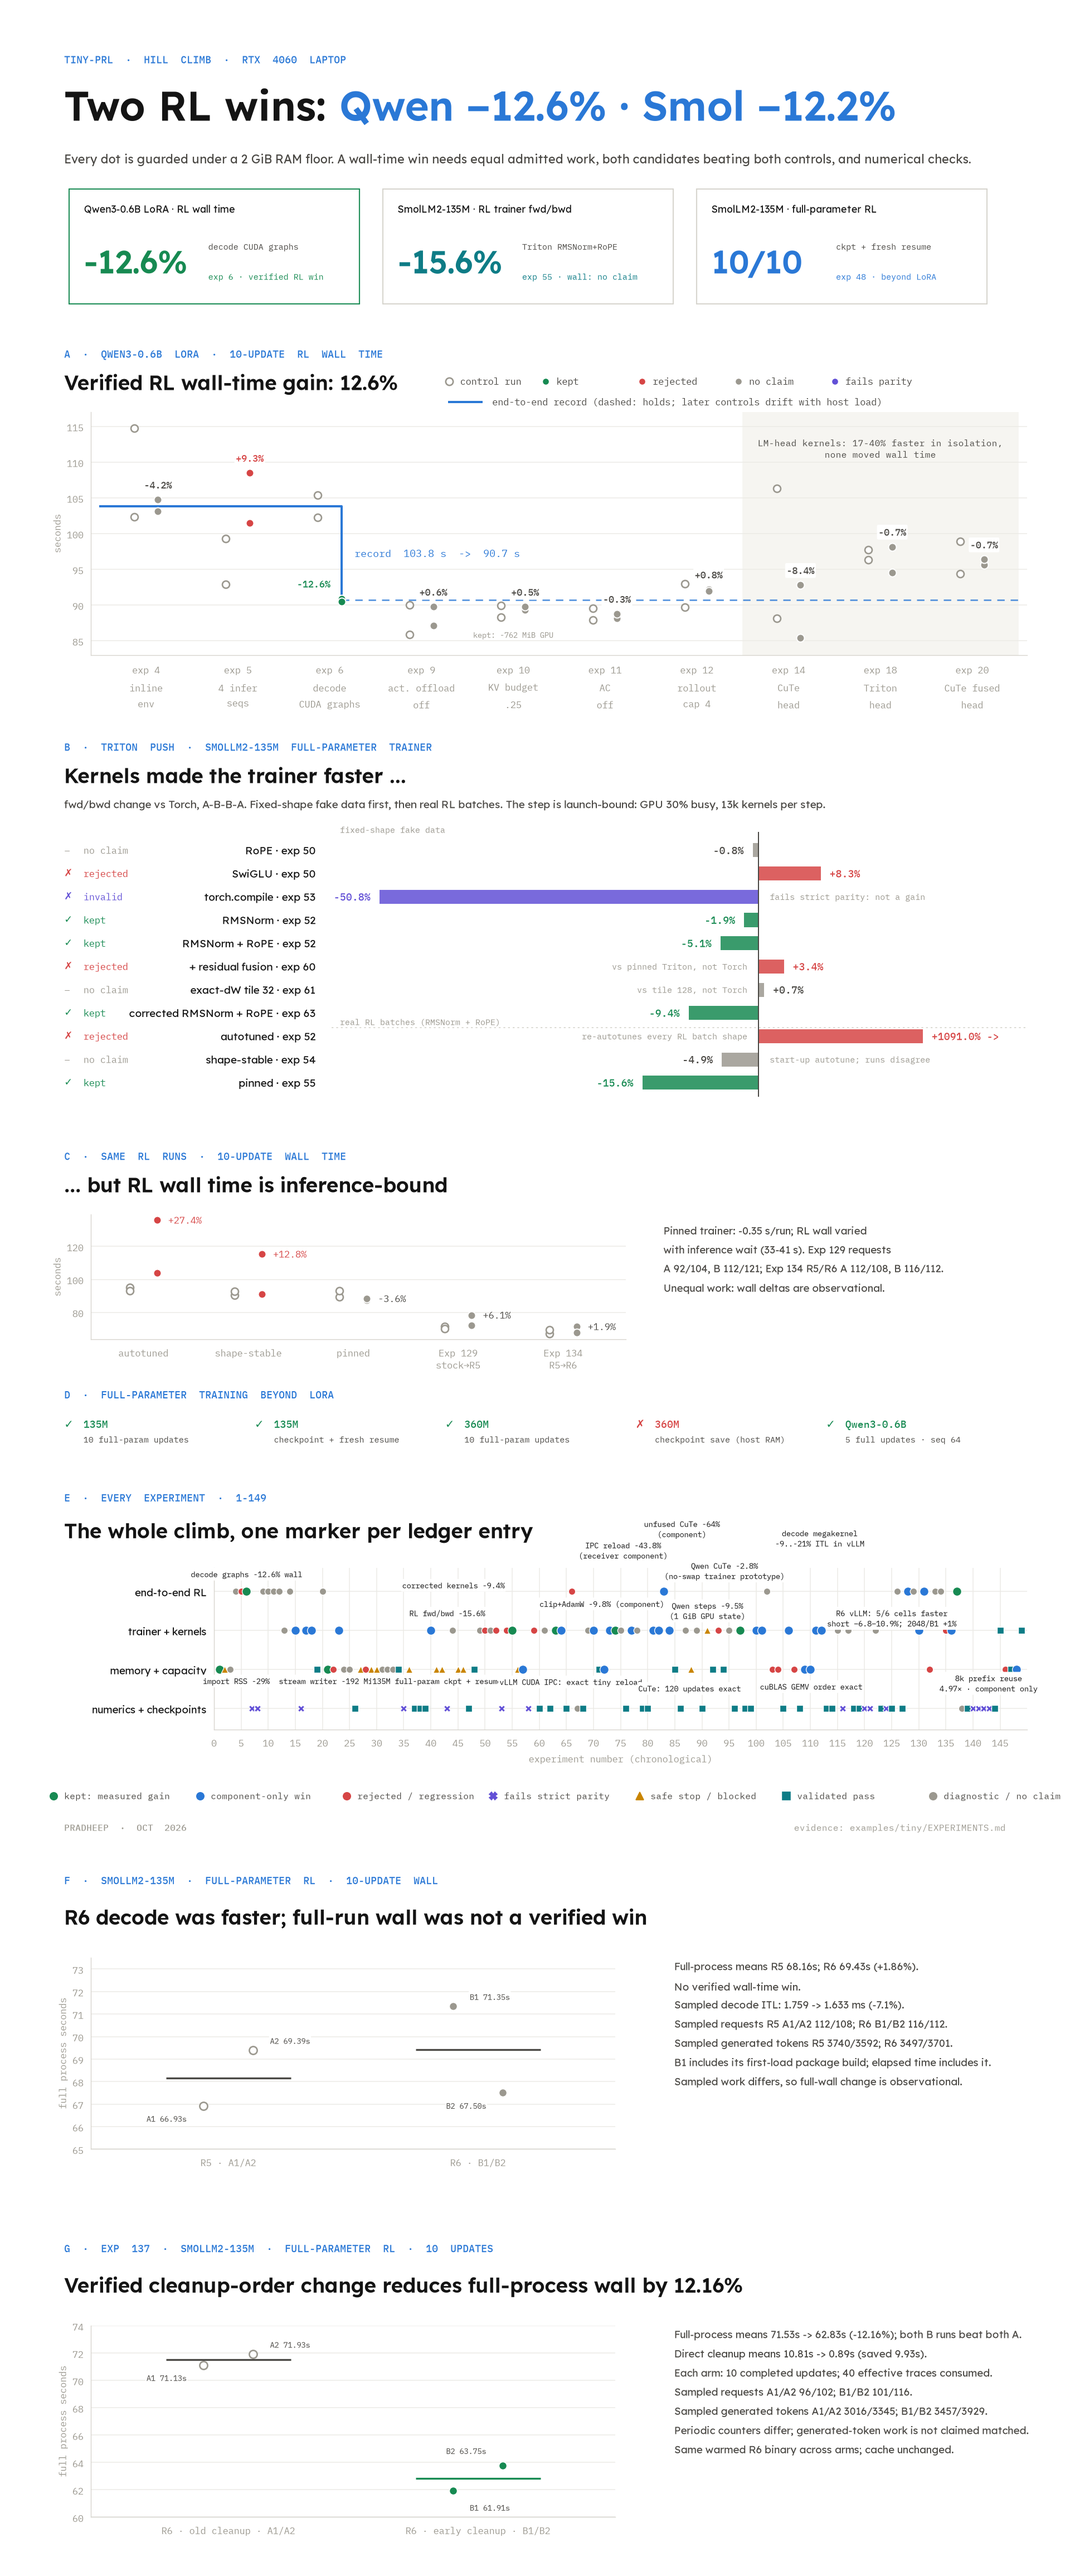
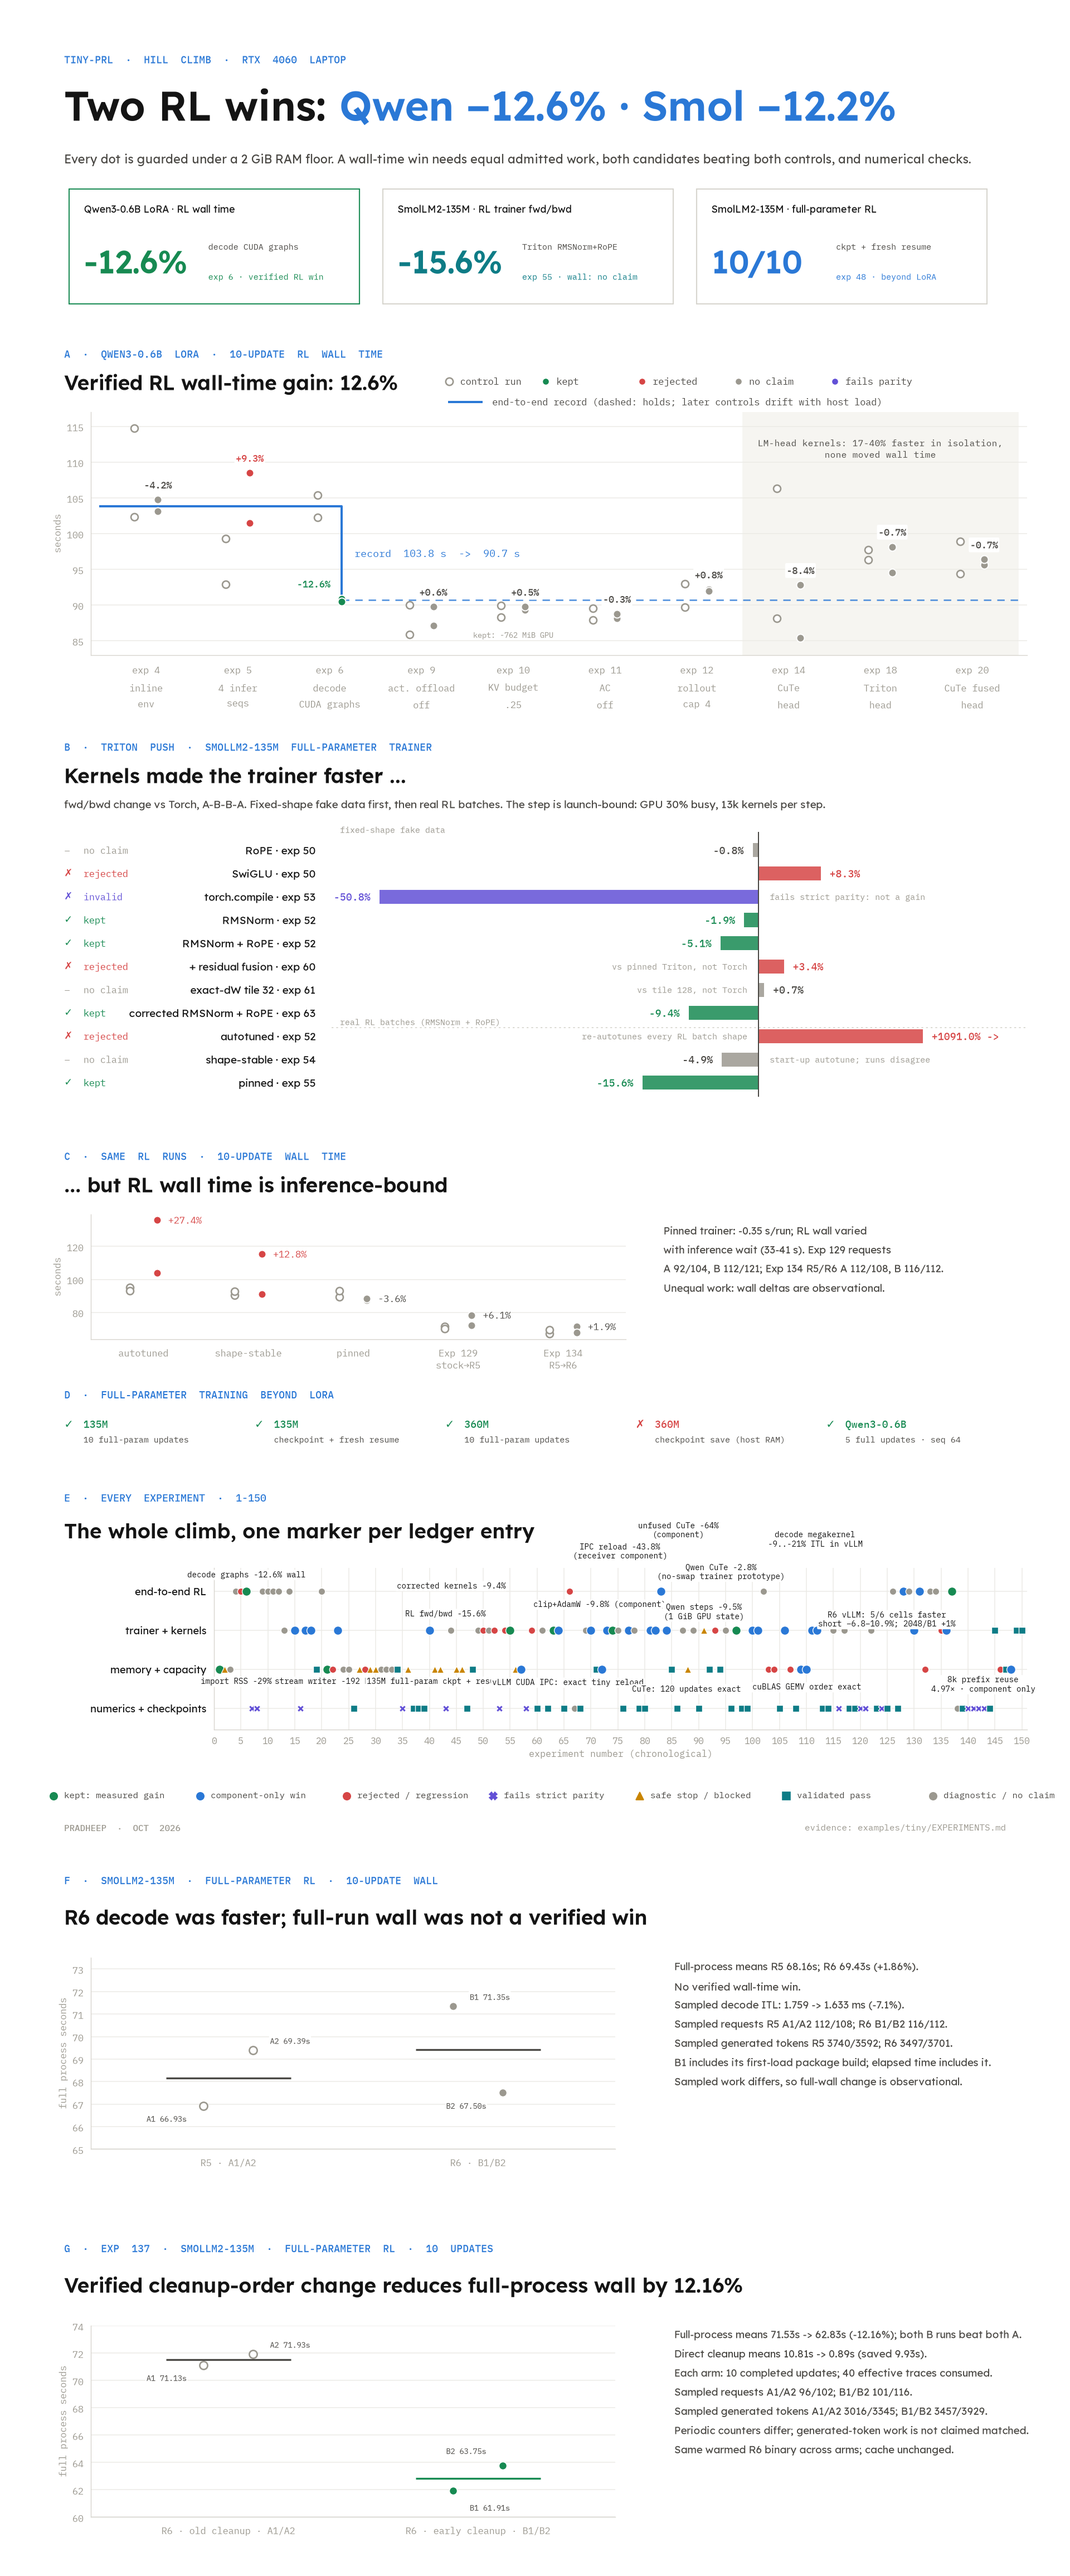
docs: record main score-centering validation

diff --git a/tools/plot_tiny_hillclimb.py b/tools/plot_tiny_hillclimb.py
@@ -245,6 +245,7 @@ EXPERIMENTS = {
     147: (MEM, "validated"),
     148: (MEM, "component"),
     149: (TRAIN, "validated"),
+    150: (TRAIN, "validated"),
 }
 # Callout text with (dx, dy) offsets in points, staggered so neighbours do not collide.
 CALLOUTS = {

diff --git a/examples/tiny/EXPERIMENTS.md b/examples/tiny/EXPERIMENTS.md
@@ -1302,3 +1302,9 @@ In a guarded A-B-B-A on three synthetic 8,000-token prefixes and eight completio
 The isolated local port completed three guarded RL updates with bounded replay sampling (`logprobs=8`, `top_k=8`). Loss, KL, and gradient norm were finite at every update. All 12 trainer-consumed trace IDs (four per update) joined to stream and orchestrator annotations. Across the three updates, measured head mass stayed approximately 1.0 and tail scale was exactly 0; mean logit-correction L1 was only 6.6–7.0e-7, so this run exercised the score-centering path with negligible effective correction. The run took 47.72 seconds, peaked at 5220 MiB GPU memory, used no swap, and retained at least 3.06 GiB available RAM.
 
 Three earlier real-run attempts exposed compatibility gaps and are retained as diagnostic milestones: R1 called `SamplingParams.model_copy`, which pinned vLLM 0.31 does not provide; R2 failed msgspec encoding on a NumPy scalar from the newer trace path; R3 lost `SamplingMask.logprobs` while slicing and packing batches. R4 completed after those fixes. This validates a three-update integration smoke, not reward/quality improvement, learning progress, or wall-time speedup. The renderer/verifier overlays are isolated compatibility inputs; the minimum supported dependency metadata remains unresolved. Evidence: `outputs/megakernel-20261025/icepop-rl-smoke-r4/{runtime-audit.md,runtime-audit.json,guard/result.json,frozen-source-hashes.json}` and `icepop-rl-smoke-r{1,2,3}/` diagnostics.
+
+## Experiment 150: main-checkout IcePop completes 20 full-parameter RL updates
+
+Two guarded runs exercise the integrated score-centering loss from the main checkout with no source overlays and `score_centering_topk=8`: ten updates with bounded `top_k=8` sampling, then ten with untruncated `top_p=1.0` sampling. All 20 trainer steps have finite loss, mismatch KL, and gradient norm, and each run reaches its configured step 10. The bounded run reports head mass approximately 1, tail scale 0, and mean logit-correction L1 of 5.8–6.8e-7. The untruncated run reports head mass 0.82–0.94 and tail scale 1, but logged correction L1 is 0. These runs validate integration across both sampling paths, not reward or learning improvement, nor a wall-time gain.
+
+The CPU regression groups passed 317 tests with 108 deselected and none failing; GPU tests were not part of this check. Runtime source records resolve loss to the main checkout and verifiers/renderers to the pinned dependency commits `1e80567bc3e80de16a73f0fa5e0ee93b15d1cdca` and `70c8204bbce9c0afa7de746c1e249a717980f8dc`. Both guarded runs returned 0, used no swap, and peaked at 5262/5260 MiB GPU memory. Offline lock verification remains incomplete because the cached vLLM wheel was unavailable; no dependency metadata was changed. Evidence: `outputs/icepop-main-tests-r1/results.json` and `outputs/megakernel-20261025/icepop-main-{full-r1,untruncated-r2}/{config.toml,runtime-sources.json,guard/{result.json,launch.log},output/}`.
